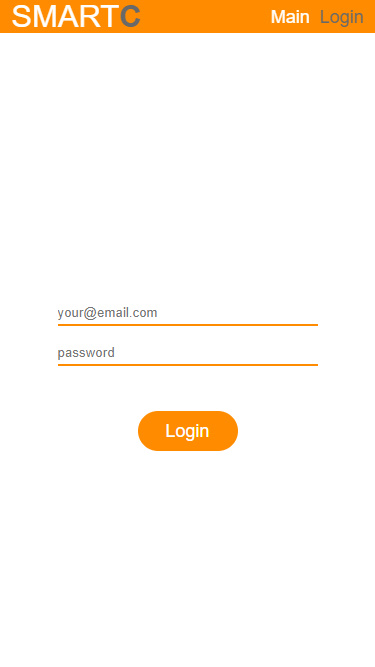
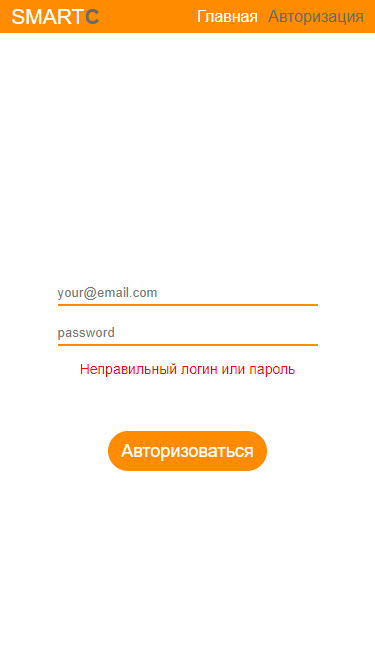
small interface changes added

diff --git a/src/components/Login/Login.tsx b/src/components/Login/Login.tsx
@@ -4,11 +4,13 @@ import { useActions } from '../../hooks/useActions'
 import bcrypt from 'bcryptjs'
 
 import './Login.scss'
+import { useTypedSelector } from '../../hooks/useTypedSelector'
 
 export const Login = (): JSX.Element => {
 	const [email, setEmail] = useState<string>('')
 	const [password, setPassword] = useState<string>('')
 
+	const { status, error } = useTypedSelector(state => state.auth)
 	const { fetchToken } = useActions()
 
 	const changeHandler = (value: string) => {
@@ -33,6 +35,11 @@ export const Login = (): JSX.Element => {
 				onChange={e => changeHandlerPwd(e.target.value)}
 				value={password}
 			/>
+			{status === 'error' && error?.includes('Authentication error!') ? (
+				<p style={{ color: 'red', fontSize: 14 }}>
+					Неправильный логин или пароль
+				</p>
+			) : null}
 			<button
 				onClick={() =>
 					fetchToken({
@@ -44,7 +51,7 @@ export const Login = (): JSX.Element => {
 					})
 				}
 			>
-				Login
+				Авторизоваться
 			</button>
 		</div>
 	)

diff --git a/src/components/Header/Header.tsx b/src/components/Header/Header.tsx
@@ -21,7 +21,7 @@ export const Header = (): JSX.Element => {
 							to='/smartcalc/'
 							style={({ isActive }) => ({ color: isActive ? '#696969' : '' })}
 						>
-							Main
+							Главная
 						</NavLink>
 					</li>
 
@@ -32,7 +32,7 @@ export const Header = (): JSX.Element => {
 								to='/smartcalc/calc'
 								style={({ isActive }) => ({ color: isActive ? '#696969' : '' })}
 							>
-								Calc
+								Калькулятор
 							</NavLink>
 						</li>
 					) : (
@@ -42,7 +42,7 @@ export const Header = (): JSX.Element => {
 								to='/smartcalc/login'
 								style={({ isActive }) => ({ color: isActive ? '#696969' : '' })}
 							>
-								Login
+								Авторизация
 							</NavLink>
 						</li>
 					)}

diff --git a/src/components/CalcDataInput/CalcDataInput.tsx b/src/components/CalcDataInput/CalcDataInput.tsx
@@ -22,7 +22,7 @@ export const CalcDataInput = (): JSX.Element => {
 				index < 2 ? (
 					<input
 						key={item.key}
-						type='text'
+						type='number'
 						placeholder='Введите число'
 						onChange={e => changeInputItem(item.key, e.target.value)}
 						value={item.value}
@@ -30,7 +30,7 @@ export const CalcDataInput = (): JSX.Element => {
 				) : (
 					<div className='added-item' key={item.key}>
 						<input
-							type='text'
+							type='number'
 							placeholder='Введите число'
 							onChange={e => changeInputItem(item.key, e.target.value)}
 							value={item.value}

diff --git a/src/pages/MainPage/MainPage.tsx b/src/pages/MainPage/MainPage.tsx
@@ -25,9 +25,9 @@ export const MainPage = (): JSX.Element => {
 				</p>
 
 				{token ? (
-					<NavLink to='/smartcalc/calc'>Calc</NavLink>
+					<NavLink to='/smartcalc/calc'>Калькулятор</NavLink>
 				) : (
-					<NavLink to='/smartcalc/login'>Login</NavLink>
+					<NavLink to='/smartcalc/login'>Авторизация</NavLink>
 				)}
 			</div>
 		</main>

diff --git a/src/components/Login/Login.scss b/src/components/Login/Login.scss
@@ -1,7 +1,6 @@
 @import '../../variables';
 
 .login-widget {
-	// margin-top: 30vh;
 	display: grid;
 	grid-template-columns: auto;
 	grid-auto-rows: 25px;
@@ -10,9 +9,10 @@
 
 	button {
 		margin-top: 30px;
+		padding: 0 13px;
 		border: none;
 		border-radius: 20px;
-		width: 100px;
+		min-width: 100px;
 		height: 40px;
 		text-align: center;
 		font-size: 18px;

diff --git a/src/components/Header/Header.scss b/src/components/Header/Header.scss
@@ -17,7 +17,7 @@
 	}
 
 	h1 {
-		font-size: 31px;
+		font-size: 21px;
 		line-height: 31px;
 		font-weight: 300;
 		position: relative;
@@ -34,8 +34,8 @@
 			display: flex;
 			justify-content: space-between;
 			font-weight: 300;
-			font-size: 18px;
-			line-height: 18px;
+			font-size: 16px;
+			line-height: 16px;
 
 			a {
 				margin-left: 10px;

diff --git a/src/components/CalcDataConfirm/CalcDataConfirm.tsx b/src/components/CalcDataConfirm/CalcDataConfirm.tsx
@@ -18,7 +18,7 @@ export const CalcDataConfirm = (): JSX.Element => {
 			<h1>Подтвердите данные</h1>
 			<div className='calc-data-confirm-search'>
 				<input
-					type='text'
+					type='number'
 					placeholder='Поиск'
 					onChange={e => searchItems(e.target.value)}
 					value={searchString}

diff --git a/src/store/actionCreators/auth.actionCreators.ts b/src/store/actionCreators/auth.actionCreators.ts
@@ -22,7 +22,7 @@ export const fetchToken = (authData: AuthData) => {
 		} catch (error) {
 			dispatch({
 				type: AuthActionTypes.FETCH_TOKEN_ERROR,
-				payload: `An error occurred while loading the access token!*${error}`,
+				payload: `Authentication error!*${error}`,
 			})
 		}
 	}

diff --git a/src/pages/LoginPage/LoginPage.tsx b/src/pages/LoginPage/LoginPage.tsx
@@ -12,7 +12,7 @@ export const LoginPage = (): JSX.Element => {
 
 			<div className='container'>
 				{status === 'loading' ? <Spinner /> : null}
-				{status === 'waiting' ? <Login /> : null}
+				{status === 'waiting' || status === 'error' ? <Login /> : null}
 			</div>
 		</main>
 	)

diff --git a/src/pages/MainPage/MainPage.scss b/src/pages/MainPage/MainPage.scss
@@ -19,8 +19,9 @@
 
 		a {
 			border-radius: 20px;
+			padding: 0 13px;
 			padding-top: 11px;
-			width: 100px;
+			min-width: 100px;
 			height: 40px;
 			text-align: center;
 			font-size: 18px;
